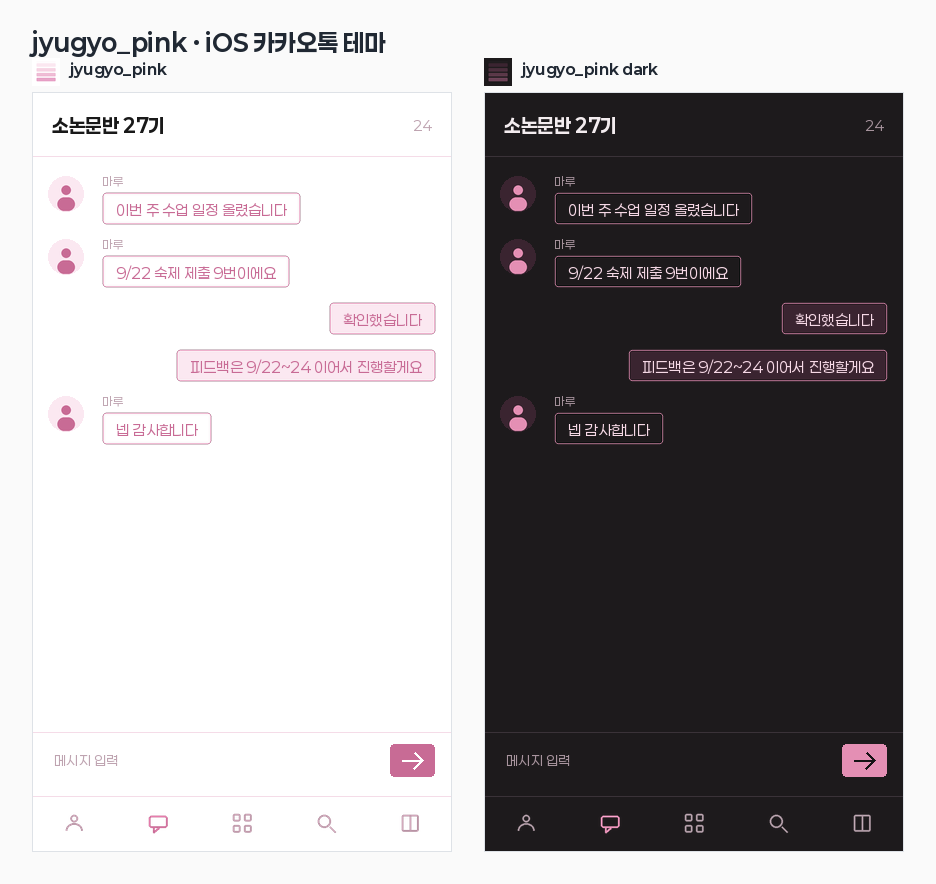
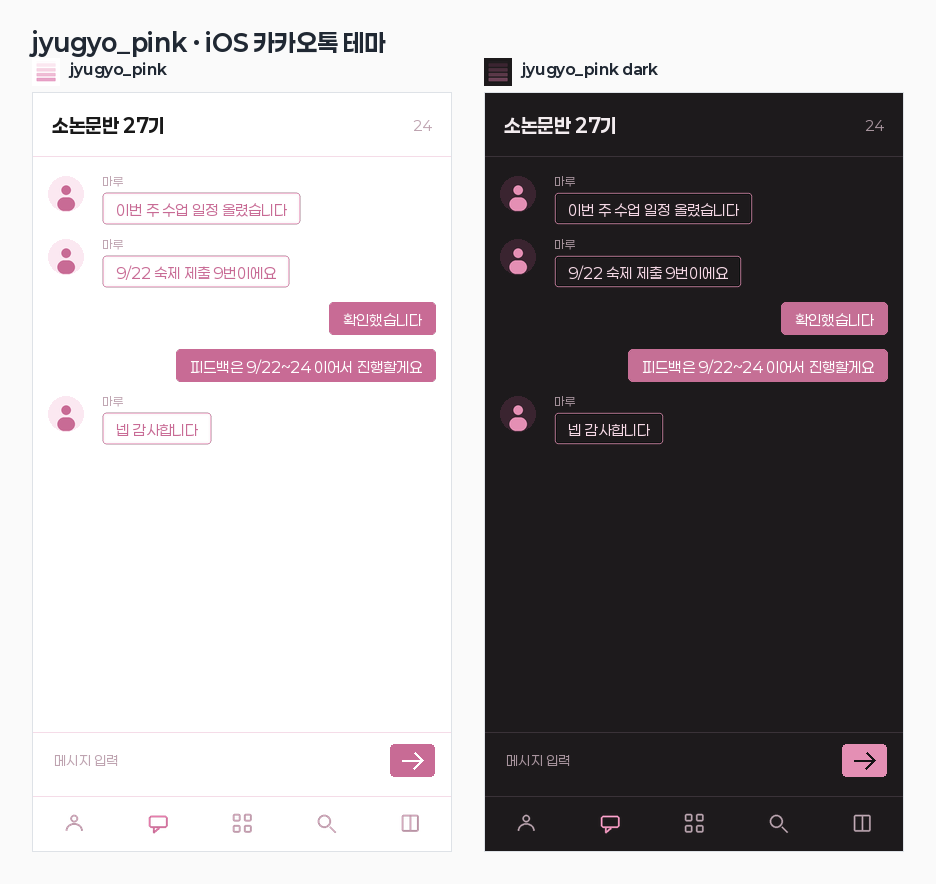
Make the send bubble a solid rose fill with white text
Fills the sent bubble with the border color instead of outlining it:
#C86B95 with #FFFFFF text. The dark variant fills with #C56F95 rather
than its own border color #E48FB4, which would leave white text at a
2.0 contrast ratio. Received bubbles are unchanged.

Claude-Session: https://claude.ai/code/session_01UyhDRHFnyuBUdwVMkJdqTz

Changed region(s): [[0.6506, 0.336, 0.9605, 0.4581], [0.1859, 0.336, 0.4647, 0.4581]]

diff --git a/kakaotalk-theme/build.py b/kakaotalk-theme/build.py
@@ -52,10 +52,10 @@ PALETTES = {
         'accent_dim': '#B05780',
         'on_accent': '#FFFFFF',
 
-        # 말풍선 — 보낸쪽 연분홍 바탕, 받은쪽 흰 바탕. 둘 다 로즈색 테두리와 글자
-        'send':       ('#FBE8F1', '#C86B95'),
-        'send_alt':   ('#F8DCEA', '#C86B95'),
-        'send_text':  '#C86B95',
+        # 말풍선 — 보낸쪽은 로즈색 단색에 흰 글자, 받은쪽은 흰 바탕에 로즈색 테두리·글자
+        'send':       ('#C86B95', None),
+        'send_alt':   ('#B05780', None),
+        'send_text':  '#FFFFFF',
         'recv':       ('#FFFFFF', '#C86B95'),
         'recv_alt':   ('#FDF5F9', '#C86B95'),
         'recv_text':  '#C86B95',
@@ -86,9 +86,11 @@ PALETTES = {
         'accent_dim': '#C56F95',
         'on_accent': '#161315',
 
-        'send':       ('#3A2430', '#E48FB4'),
-        'send_alt':   ('#452B39', '#E48FB4'),
-        'send_text':  '#F6D9E6',
+        # 다크는 테두리색 #E48FB4 을 그대로 채우면 흰 글자가 안 읽힌다(대비 2.0).
+        # 한 단계 짙은 #C56F95 로 채워 흰 글자 대비를 3.7 까지 올린다.
+        'send':       ('#C56F95', None),
+        'send_alt':   ('#AE5C81', None),
+        'send_text':  '#FFFFFF',
         'recv':       ('#1D1A1C', '#E48FB4'),
         'recv_alt':   ('#262023', '#E48FB4'),
         'recv_text':  '#F6D9E6',

diff --git a/kakaotalk-theme/README.md b/kakaotalk-theme/README.md
@@ -26,9 +26,10 @@
 | 제목·이름 글자 | `#191919` | `#F3ECEF` | 스크린샷 헤더 |
 | 보조 글자 | `#BEA3B0` | `#A8949E` | 스크린샷 입력창 안내문 |
 | 포인트(전송 버튼·안 읽은 수·선택된 탭) | `#C86B95` | `#E48FB4` | 스크린샷 말풍선 글자 |
-| 보낸 말풍선 | `#FBE8F1` + `#C86B95` 테두리 | `#3A2430` | 스크린샷 |
-| 받은 말풍선 | `#FFFFFF` + `#C86B95` 테두리 | `#1D1A1C` | 스크린샷 |
-| 말풍선 글자 | `#C86B95` | `#F6D9E6` | 스크린샷 |
+| 보낸 말풍선 | `#C86B95` 단색 | `#C56F95` 단색 | 스크린샷 테두리색으로 안까지 |
+| 보낸 말풍선 글자 | `#FFFFFF` | `#FFFFFF` | — |
+| 받은 말풍선 | `#FFFFFF` + `#C86B95` 테두리 | `#1D1A1C` + `#E48FB4` 테두리 | 스크린샷 |
+| 받은 말풍선 글자 | `#C86B95` | `#F6D9E6` | 스크린샷 |
 
 말풍선 모서리는 4pt. 색만 스크린샷을 따르고 모양은 각진 쪽으로 둔다.
 선택 안 된 탭 아이콘만 보조글색보다 한 톤 진한 `#B792A3` 을 쓴다 —
